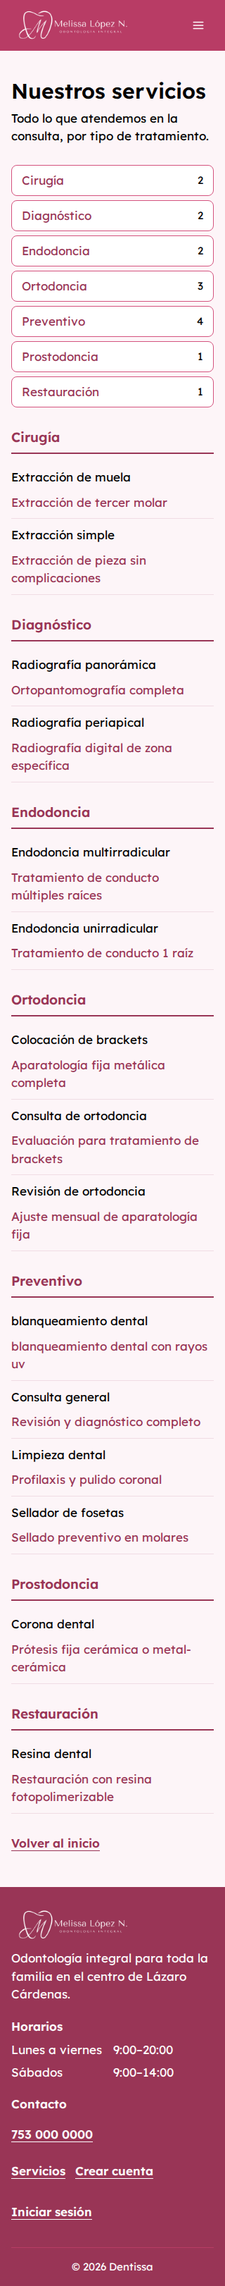
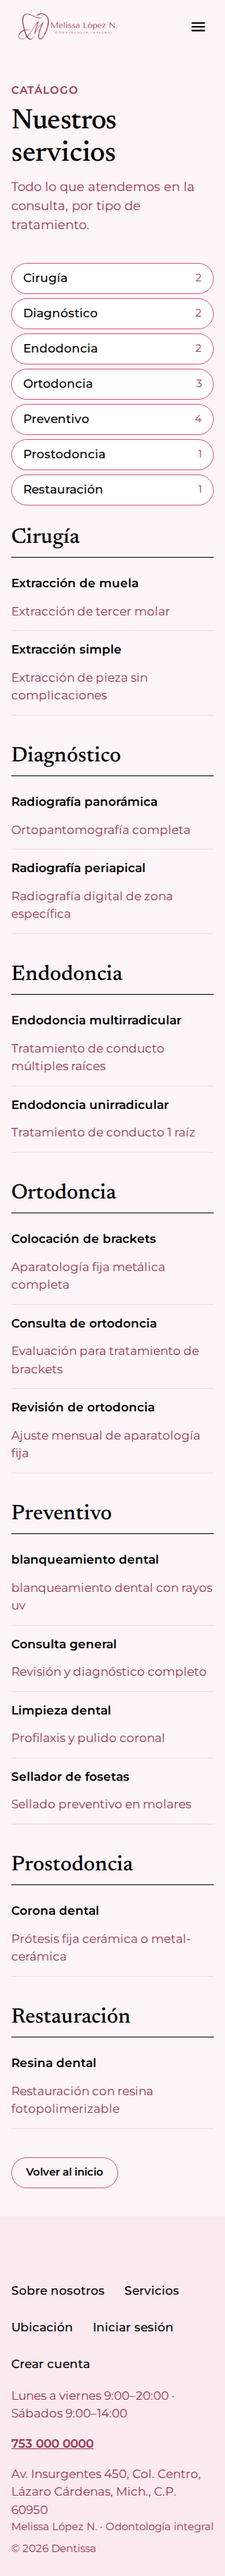
docs(038): T089 mediciones y capturas de las páginas públicas de la ronda 6 — A49
Cubre: CA9
Tareas: docs/specs/038-pagina-inicio/tasks.md

Claude-Session: https://claude.ai/code/session_01ETZ7W1s9XKuhywu4hXTqk6

diff --git a/docs/specs/038-pagina-inicio/tasks.md b/docs/specs/038-pagina-inicio/tasks.md
@@ -217,7 +217,8 @@ maqueta llevan el prefijo `pub-` (D19).
 - [-] T058 Rehacer `/servicios` con la superficie de la ronda 5: el cambio sin commit de T085 ya se descartó el 2026-10-31 antes de T033 (copia en el scratchpad de la sesión) y la vista lleva la tipografía (título y categorías en `--font-display`), el índice en píldoras y los botones `.c-btn`; la estructura, las anclas y el estado vacío no cambian — `resources/views/publico/servicios.blade.php` — hecho cuando: `ServiciosPublicosTest` sigue en verde y los casos de `/servicios` de T050 y T051 pasan · verificación manual: a 390 y 1440 px contra `history/ronda-2/opcion-b.html#servicios-m` y `#servicios-d` con la cabecera, el pie, la tipografía y las píldoras de la ronda 5 — cubre: CA6, CA8 — depende: T056 — obsoleta: la ronda 6 de diseño (D23, `design.md` con `c5`) sustituye a la ronda 5; lo implementado en 492fd74 es la base de T039 (2026-10-31)
 - [x] T059 Retirar lo que la ronda 5 deja sin uso (D21): Lexend y la foto de Unsplash — `public/fonts/lexend/`, `public/images/portada-800.webp`, `public/images/portada-1600.webp` — hecho cuando: el caso de retiradas de T050 pasa y nada en `resources/`, `public/` ni `config/` los cita — depende: T056, T038
   - nota: 2026-10-31 — borrados `public/fonts/lexend/`, `public/images/portada-800.webp` y `portada-1600.webp` (D21); nada en `resources/`, `public/` ni `config/` cita Lexend, la foto de Unsplash ni Cormorant (retirada en T037). Pasa el caso de retiradas de T050; la suite entera en verde: 613 passed (10 073 aserciones). Queda `brand/access-recorte.webp` (D20), que la ronda 6 ya no usa: se conserva como recorte de la foto propia.
-- [ ] T089 Medir y capturar las páginas públicas de la ronda 6 (D23): la comprobación «038 páginas públicas» de `--medir` dos veces (con y sin JavaScript, la pastilla y el menú con Escape) y capturas a 320, 390, 900 y 1440 px para `system.html` — `docs/design/capturas/` (generado por node docs/design/capturar.mjs publico-inicio publico-servicios) — hecho cuando: `--medir` da «todo en orden» las dos veces · verificación manual: menú del móvil con el teclado y la página de inicio con NVDA (títulos, el índice como enlaces con su nombre y su número, la pastilla anunciada una vez, los adornos ignorados) — cubre: CA9 — depende: T052, T038, T039
+- [x] T089 Medir y capturar las páginas públicas de la ronda 6 (D23): la comprobación «038 páginas públicas» de `--medir` dos veces (con y sin JavaScript, la pastilla y el menú con Escape) y capturas a 320, 390, 900 y 1440 px para `system.html` — `docs/design/capturas/` (generado por node docs/design/capturar.mjs publico-inicio publico-servicios) — hecho cuando: `--medir` da «todo en orden» las dos veces · verificación manual: menú del móvil con el teclado y la página de inicio con NVDA (títulos, el índice como enlaces con su nombre y su número, la pastilla anunciada una vez, los adornos ignorados) — cubre: CA9 — depende: T052, T038, T039
+  - nota: 2026-10-31 — `capturar.mjs --medir` completo no cabe en la memoria del equipo (una pasada paró por falta de memoria y Docker Desktop se cayó); por decisión del usuario, las comprobaciones «038» se repitieron con `medir038.mjs` (copia de las de `capturar.mjs` solo para `/` y `/servicios`, sin sesión, un único navegador): sin desborde ni recortes, toque ≥ 44 (también con el menú abierto), sin JavaScript todo visible, la pastilla escrita y dentro de la pantalla, y el menú del móvil (nombre «Menú», sin texto a la vista) que se cierra con Escape y devuelve el foco, a 320, 390, 900 y 1440. La primera pasada de `--medir` encontró los enlaces del menú abierto a 42 px (la animación de apertura arrancaba en `scale(0.96)`): corregido en 5bcf537 con un desplazamiento. `medir038.mjs` dos veces: «todo en orden». Capturas `publico-inicio` y `publico-servicios` a 320, 390, 900 y 1440 en `docs/design/capturas/`. A49: la comprobación del menú exige el nombre «Menú», sin texto visible y 44 × 44. Verificación con NVDA: aceptada con lo medido por decisión del usuario (2026-10-31): roles, nombres, `aria-hidden` de los adornos y `aria-live` de la pastilla los comprueban los tests (`test_nombres_accesibles`, `test_los_adornos_del_rediseno_estan_ocultos`, la pastilla), y el menú con el teclado, `medir038.mjs`; el recorrido con lector queda para la /review.
 
 ### Ronda 6 de diseño (plan D23, `design.md` aprobado con `c5`)
 El candidato aceptado `design/candidatos/c5.html` (motor por criterios de AI-DD 1.19) sustituye a la
